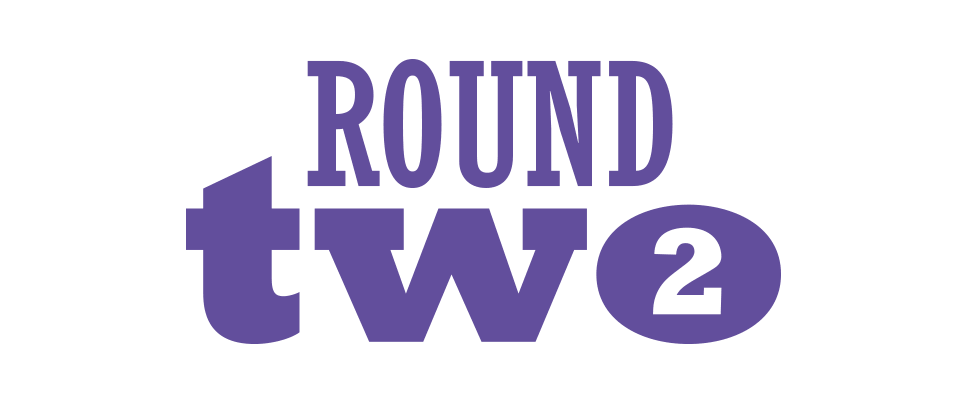
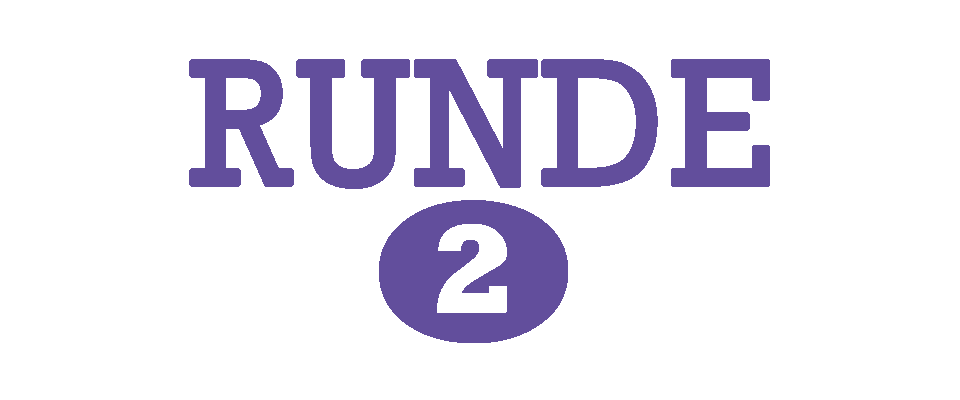
Quiplash / XL

Changed region(s): [[0.1875, 0.15, 0.8125, 0.87]]

diff --git a/main/pp2/quiplash/script.js b/main/pp2/quiplash/script.js
@@ -21035,10 +21035,10 @@ const $x = Et.View.extend({
             <div class="container">\r
                 <br /><span id="quiplash-lobby-text"></span><br />\r
                 <form class="pure-form">                    \r
-                    <button type="button" id="quiplash-startgame" class="button-quiplash button-xlarge pure-button pure-input-1">EVERYBODY'S IN</button>\r
-                    <button type="button" id="quiplash-stopcountdown" class="button-quiplash  button-xlarge pure-button pure-input-1">CANCEL</button>\r
-                    <button type="button" id="quiplash-sameplayers" class="button-quiplash  button-xlarge pure-button pure-input-1 quiplash-endbuttons">SAME PLAYERS</button>\r
-                    <button type="button" id="quiplash-newplayers" class="button-quiplash  button-xlarge pure-button pure-input-1 quiplash-endbuttons">NEW PLAYERS</button>    \r
+                    <button type="button" id="quiplash-startgame" class="button-quiplash button-xlarge pure-button pure-input-1">ALLE BEREIT</button>\r
+                    <button type="button" id="quiplash-stopcountdown" class="button-quiplash  button-xlarge pure-button pure-input-1">ABBRECHEN</button>\r
+                    <button type="button" id="quiplash-sameplayers" class="button-quiplash  button-xlarge pure-button pure-input-1 quiplash-endbuttons">GLEICHE SPIELER</button>\r
+                    <button type="button" id="quiplash-newplayers" class="button-quiplash  button-xlarge pure-button pure-input-1 quiplash-endbuttons">ANDERE SPIELER</button>    \r
                 </form>\r
             </div>\r
         </div>\r
@@ -21066,10 +21066,10 @@ const $x = Et.View.extend({
                 <span id="quiplash-submit-alert" class="alert alert-info">Alert message goes here</span>\r
                 <form class="pure-form" id="quiplash-answer-field">\r
                     <div class="pure-u-1">\r
-                        <input id="quiplash-answer-input" name="quiplash-answer" class="pure-input-1 capitalize jbg-input quiplash-answer-input" type="text" maxlength="45" placeholder="ANSWER HERE" autocapitalize="off" autocorrect="off" autocomplete="off">\r
+                        <input id="quiplash-answer-input" name="quiplash-answer" class="pure-input-1 capitalize jbg-input quiplash-answer-input" type="text" maxlength="45" placeholder="HIER ANTWORTEN" autocapitalize="off" autocorrect="off" autocomplete="off">\r
                     </div>\r
                     <button type="submit" id="quiplash-submit-answer" class="button-quiplash button-large pure-button capitalize right">\r
-                        <i class="fas fa-paper-plane"></i>&nbsp;&nbsp;Send\r
+                        <i class="fas fa-paper-plane"></i>&nbsp;&nbsp;Senden\r
                     </button>\r
                     <div id="quiplash-submit-answer-loading" style="display:none;" class="button-quiplash-loading"></div>            \r
                 </form>\r
@@ -21078,7 +21078,7 @@ const $x = Et.View.extend({
         </div>    \r
         \r
         <div id="state-done-answering" class="pt-page-off quiplash-page">\r
-            <br/><span>Thanks for your answers!</span><br/>\r
+            <br/><span>Danke für deine Antworten!</span><br/>\r
         </div>\r
         \r
         <div id="state-vote" class="pt-page-off quiplash-page">\r
@@ -21142,7 +21142,7 @@ const Hx = VC.extend({
                 return
             }
             const v = t.lobbyState;
-            v === "WaitingForMore" ? Ce("#quiplash-lobby-text").html("Waiting for all players to join") : v === "CanStart" ? (Ce("#quiplash-lobby-text").html("Press this button when everybody has joined"), Ce("#quiplash-startgame").show()) : v === "Countdown" ? (Ce("#quiplash-lobby-text").html("Press this button to cancel game start"), Ce("#quiplash-stopcountdown").show()) : v === "PostGame" && (Ce("#quiplash-lobby-text").html("What do you want to do?"), Ce(".quiplash-endbuttons").show()), this.showScreen("#state-lobby")
+            v === "WaitingForMore" ? Ce("#quiplash-lobby-text").html("Warte, bis alle Spieler beigetreten sind") : v === "CanStart" ? (Ce("#quiplash-lobby-text").html("Drücke diesen Knopf, wenn alle beigetreten sind"), Ce("#quiplash-startgame").show()) : v === "Countdown" ? (Ce("#quiplash-lobby-text").html("Drücke diesen Knopf um den Spielstart abzubrechen"), Ce("#quiplash-stopcountdown").show()) : v === "PostGame" && (Ce("#quiplash-lobby-text").html("Was möchtet ihr jetzt machen?"), Ce(".quiplash-endbuttons").show()), this.showScreen("#state-lobby")
         } else if (i === "Gameplay_Logo") this.showScreen("#state-logo");
         else if (i === "Gameplay_Round") {
             const v = new URL(Object.assign({
@@ -21159,18 +21159,18 @@ const Hx = VC.extend({
                 }
                 if (this.currentAnswerQuestionId !== e.question.id && (Ce("#quiplash-answer-input").val(""), Ce("#quiplash-answer-field").show(), Ce("#quiplash-submit-alert").hide(), Ce("#state-answer-question #question-text").html(e.question.prompt.replace(/<BLANK>/gi, "________"))), e.showError) {
                     const v = Ce("#quiplash-submit-alert");
-                    Ce("#quiplash-submit-alert").html("You entered the same thing as someone else! Try again."), v.addClass("alert-info"), v.removeClass("alert-danger"), v.show()
+                    Ce("#quiplash-submit-alert").html("Du hast das gleiche wie jemand anderes eingegeben. Versuche es nochmal."), v.addClass("alert-info"), v.removeClass("alert-danger"), v.show()
                 }
                 this.currentAnswerQuestionId = e.question.id, this.showScreen("#state-answer-question")
-            } else Ce(".state-answer-question-audience-text").html("You\u2019re in the audience! Wait for the time to vote."), this.showScreen("#state-answer-question-audience");
+            } else Ce(".state-answer-question-audience-text").html("Du bist im Publikum! Warte, bis du abstimmen kannst."), this.showScreen("#state-answer-question-audience");
         else if (i === "Gameplay_Vote") {
             if (e.doneVoting) {
-                Ce("#vote-text").html("Wait for the other players!"), Ce("#quiplash-vote").html(""), this.showScreen("#state-vote");
+                Ce("#vote-text").html("Warte auf die anderen Spieler!"), Ce("#quiplash-vote").html(""), this.showScreen("#state-vote");
                 return
             }
             t.question ? Ce("#state-vote #question-text").html(t.question.prompt.replace(/<BLANK>/gi, "________")) : Ce("#state-vote #question-text").html("");
             let v = "";
-            e.votesLeft > 1 ? v = " votes left" : e.votesLeft === 1 && (v = " vote left"), Ce("#vote-text").html(e.votesLeft ? `You have ${e.votesLeft}${v}` : "Which one do you like more?");
+            e.votesLeft > 1 ? v = " votes left" : e.votesLeft === 1 && (v = " vote left"), Ce("#vote-text").html(e.votesLeft ? `You have ${e.votesLeft}${v}` : "Welche gefällt dir besser?");
             let S = "";
             if (t.choices && t.order)
                 for (let k = 0; k < t.order.length; k++) {
@@ -21217,7 +21217,7 @@ const Hx = VC.extend({
         const t = this.sanitize(Ce("#quiplash-answer-input").val()).toUpperCase();
         if (t.length === 0) {
             const e = Ce("#quiplash-submit-alert");
-            return Ce("#quiplash-submit-alert").html("You can't enter nothing!"), e.removeClass("alert-info"), e.addClass("alert-danger"), e.show(), !1
+            return Ce("#quiplash-submit-alert").html("Du musst etwas eingeben!"), e.removeClass("alert-info"), e.addClass("alert-danger"), e.show(), !1
         }
         return this.client.send("SendMessageToRoomOwner", {
             answer: t,
